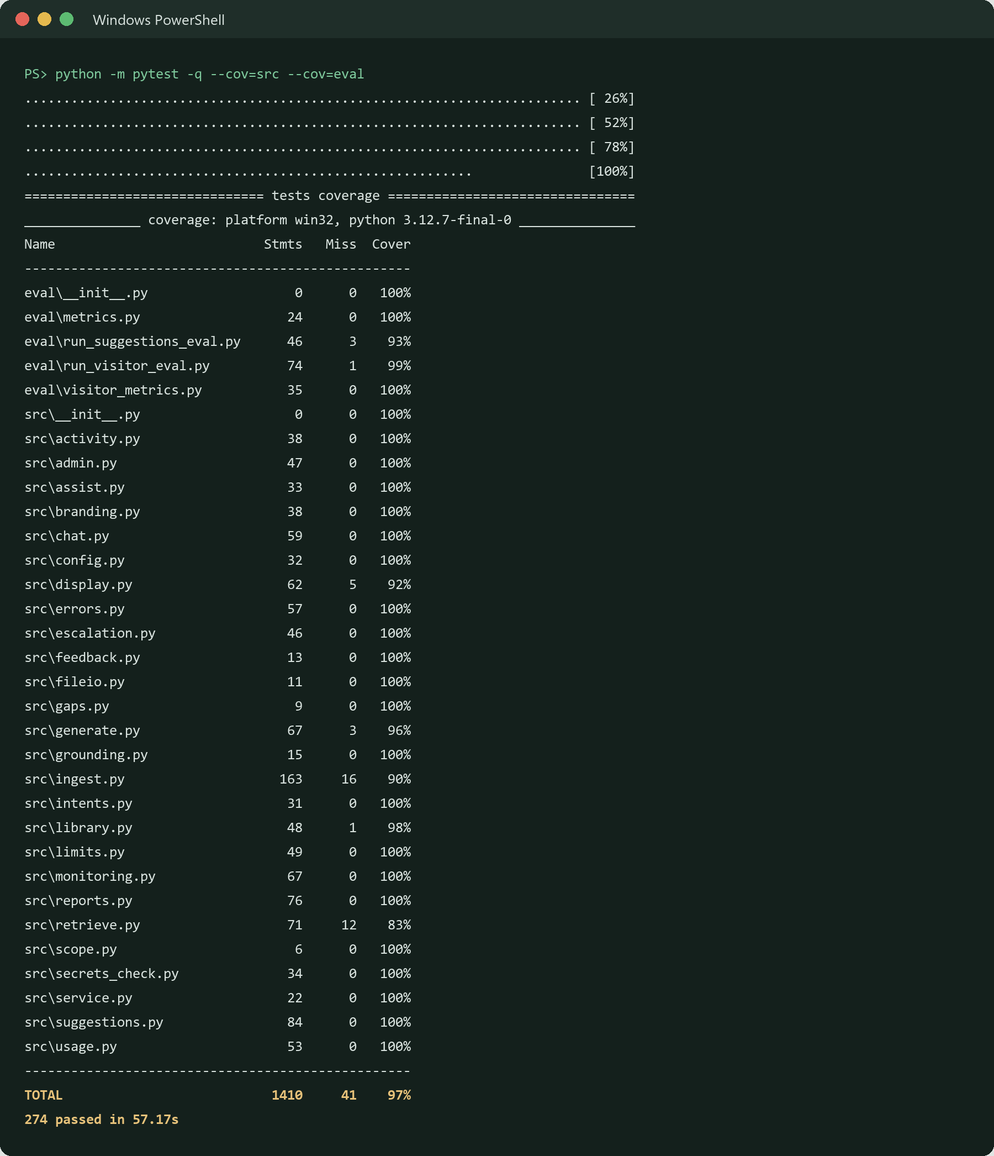
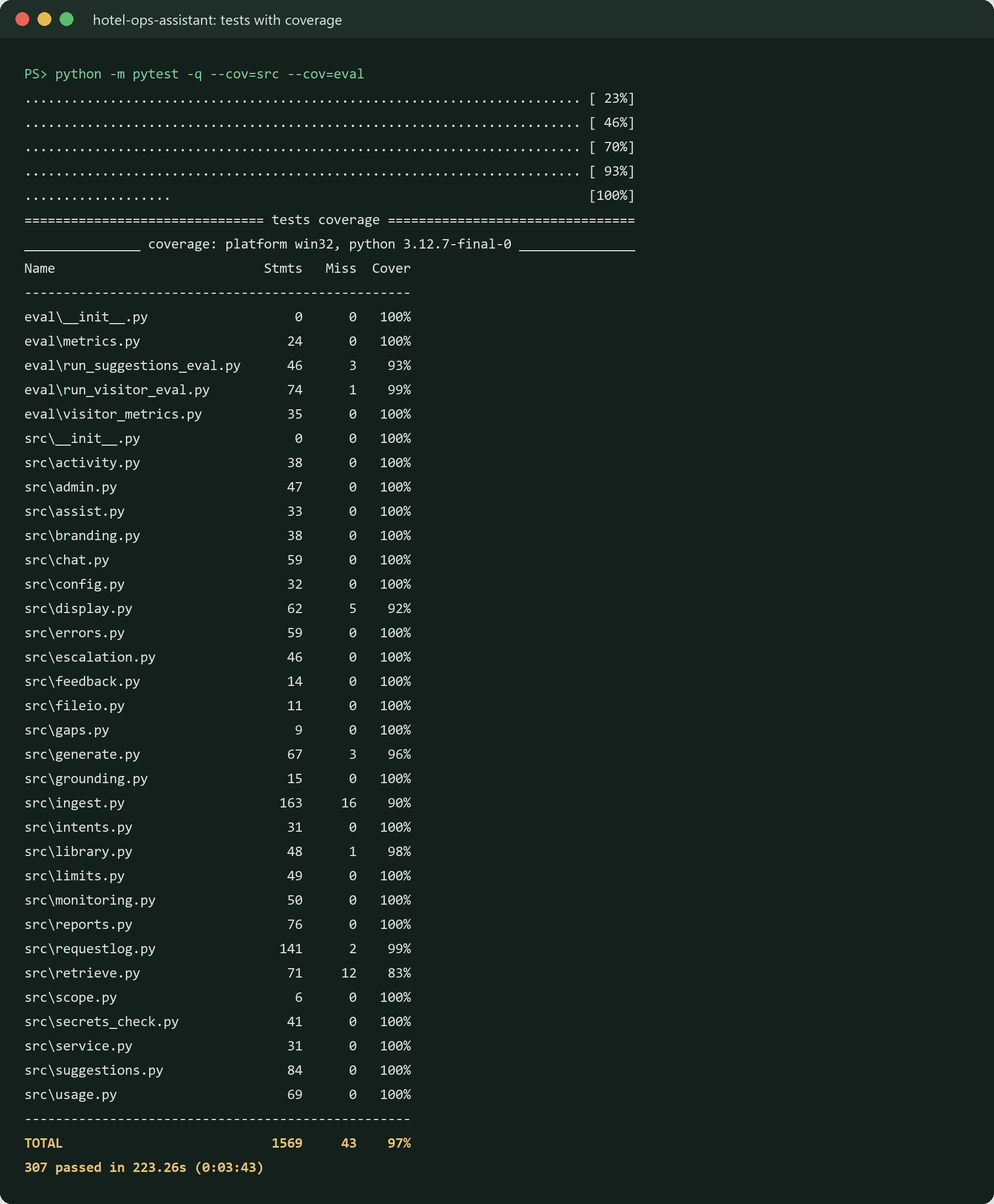
docs: request log, decision 50, limitations, screenshots and 1.5.0

diff --git a/README.md b/README.md
@@ -26,7 +26,7 @@
 | **Problem** | Staff search scattered PDFs, menus and notes while a guest waits, and the rules differ by hotel. Wrong answers turn into refunds and complaints. |
 | **Solution** | Pick your property, ask in plain English, and get a 1–4 sentence answer that cites every fact. It refuses when the documents don't say, corrects wrong facts in the question, and points to a manager for refunds and safety. |
 | **Projected value** | ~$32K/yr net for 2 properties (range $8.5K–$66K); ~$1.6M/yr at 100-property scale ([assumptions](docs/BUSINESS_CASE.md)) |
-| **Quality (measured)** | 54-question eval, 3 runs: **98% answer accuracy** on the live demo's keyword-only search (hybrid 97%, runs 96–98%); 100% of escalation rules correct; full answer p95 **2.5–2.7s**; **$0.17–0.19 per 1,000 questions**. **First-question success 100%** on 49 questions a visitor types first (43% before the coverage work). 274 tests, 97% coverage. |
+| **Quality (measured)** | 54-question eval, 3 runs: **98% answer accuracy** on the live demo's keyword-only search (hybrid 97%, runs 96–98%); 100% of escalation rules correct; full answer p95 **2.5–2.7s**; **$0.17–0.19 per 1,000 questions**. **First-question success 100%** on 49 questions a visitor types first (43% before the coverage work). 307 tests, 97% coverage. |
 
 ## Where to start
 
@@ -73,7 +73,7 @@ Staff have to find the right document for the right hotel while the guest waits.
 
 **For recruiters and engineers:** **How it works** reads the latest real eval report (never hard-coded numbers), shows which retrieval mode the running app uses and its measured accuracy, the architecture, the Haiku 4.5 vs 5.5 comparison, and the safety measures.
 
-**For the owner only:** a password-protected **Admin** page (hidden from visitors): health and recent errors, first-question success (live and from the eval), how each question was asked, warnings when the error rate or cost crosses a threshold, questions today against the daily cap, a filterable activity table with 👍 / 👎, CSV downloads of the logs, sign out and a 30-minute auto-lock. See [Monitoring](#monitoring).
+**For the owner only:** a password-protected **Admin** page (hidden from visitors): health and recent errors, first-question success (live and from the eval), how each question was asked, warnings when the error rate or cost crosses a threshold, questions today against the daily cap, a **request log** listing every request (answered, refused, off-topic, greeting, error, cap) with filters, where selecting a row opens its full details (answer, citations, retrieved passages, timing, cost, checks, feedback, raw JSON), JSONL and CSV downloads of the logs, sign out and a 30-minute auto-lock. See [Monitoring](#monitoring).
 
 <details>
 <summary>More screenshots: document library, how it works, dark mode, phone</summary>
@@ -259,7 +259,7 @@ Every finding is in [DECISIONS.md](docs/DECISIONS.md) with its context, decision
 | Measuring quality, not guessing | [Eval harness](eval/), [Results](#results), raw answers saved per run |
 | Debugging with evidence | [DECISIONS.md](docs/DECISIONS.md) 13–49: grader bugs, the $75 root cause, the Streamlit startup hang, an uninstallable pin, a Windows file race reproduced with two processes, a live-only crash reproduced by updating a running app in place |
 | Shipping a product people can use | In-app guidance tested on first-time visitor questions, multi-page app, streaming, light/dark, phone layout, white-label branding |
-| Production engineering habits | 274 tests, CI with audit and coverage gates, Docker, error boundaries, owner monitoring, cost caps, [SECURITY.md](SECURITY.md) |
+| Production engineering habits | 307 tests, CI with audit and coverage gates, Docker, error boundaries, owner monitoring, cost caps, [SECURITY.md](SECURITY.md) |
 | Translating tech into business value | [BUSINESS_CASE.md](docs/BUSINESS_CASE.md), the Insights page for managers |
 
 ## Project structure
@@ -279,7 +279,8 @@ hotel-ops-assistant/
 │   ├── assist.py · intents.py · suggestions.py  # Greetings, recovery, curated follow-ups and topics
 │   ├── scope.py · escalation.py · grounding.py · gaps.py
 │   ├── chat.py · limits.py · usage.py · feedback.py · errors.py · admin.py · fileio.py
-│   ├── monitoring.py       # Health, warnings, activity table and CSV export for the Admin page
+│   ├── monitoring.py       # Health, warnings and CSV export for the Admin page
+│   ├── requestlog.py       # Request log: outcomes, list, filters and details for the Admin page
 │   ├── secrets_check.py    # Secrets set/missing (never values), startup check, secrets.toml builder
 │   └── display.py · branding.py · library.py · activity.py · reports.py
 ├── branding.toml           # White-label: product name, colors, properties, sample questions
@@ -463,16 +464,26 @@ Three places to check, from most to least specific:
 
 | Where | What it shows | How to open it |
 |---|---|---|
-| **Admin page** (this app) | Health (status, model, retrieval mode, uptime, each secret shown as set or missing), questions today vs the daily cap, estimated cost today, the most recent errors with their likely cause, warnings when the error rate or cost crosses a threshold, a filterable activity table with 👍 / 👎, and CSV downloads of the usage, feedback and error logs | https://hotel-ops-assistant.streamlit.app/admin with your `ADMIN_PASSWORD` |
+| **Admin page** (this app) | Health (status, model, retrieval mode, uptime, each secret shown as set or missing), questions today vs the daily cap, estimated cost today, the most recent errors with their likely cause, warnings when the error rate or cost crosses a threshold, the request log (filters by date, property, result, feedback, errors and question text; select a row for the full details), and JSONL and CSV downloads of the usage, feedback and error logs | https://hotel-ops-assistant.streamlit.app/admin with your `ADMIN_PASSWORD` |
 | **Streamlit's "Manage app" logs** | Server output: one line per question (no question text), errors with tracebacks, startup messages | Bottom-right of the live app → **Manage app**, or [share.streamlit.io](https://share.streamlit.io) |
 | **Anthropic Console usage page** | The real API usage and bill (the Admin page only estimates cost) | [console.anthropic.com](https://console.anthropic.com) → Usage |
 
-Streamlit Cloud keeps logs, the error list and the daily counter only until the app restarts, so the Admin page shows recent activity. Persistent monitoring and alerts (e.g. Sentry) and real sign-in with roles and a guest mode are planned for **Project 4**.
+**The request log.** Every request writes one record (schema in [ARCHITECTURE.md](docs/ARCHITECTURE.md#request-log-record)): request ID, time, an anonymous session ID, property, the question, the outcome and refusal reason, the full answer, citations, follow-ups shown, every retrieved passage with its score and whether it was cited, model, search mode, first-word and total time, tokens, estimated cost, grounding flags and a safe error message. 👍 / 👎 ratings link to the request by its ID. Secret values are masked before anything is written. Records from older versions show missing fields as "not recorded".
+
+Streamlit Cloud keeps logs, the error list and the daily counter only until the app restarts, so the Admin page says "Logs reset when the app restarts" and offers JSONL downloads to keep a copy.
+
+<details>
+<summary>Admin request log: the list and a request's details (local run, real answers)</summary>
+<br>
+<img src="docs/images/request-log/01-request-list.png" alt="Admin request list: filters for date range, property, result, feedback, errors and question text, and a table of six requests with colored result badges" width="700">
+<img src="docs/images/request-log/04-details-answer.png" alt="Request details dialog, Answer tab: the full answer with a citation badge for Beach Resort policies, Pets" width="700">
+<img src="docs/images/request-log/05-details-sources.png" alt="Request details dialog, Sources tab: retrieved passages with section, score and a check mark for the cited one" width="700">
+</details> Persistent monitoring and alerts (e.g. Sentry) and real sign-in with roles and a guest mode are planned for **Project 4**.
 
 ## Testing and quality
 
 ```bash
-python -m pytest -q --cov                 # 274 tests, 97% coverage
+python -m pytest -q --cov                 # 307 tests, 97% coverage
 python -m eval.run_eval                    # retrieval, scope and escalation eval (free)
 python -m eval.run_eval --answers --runs 3 --price-in 0.10 --price-out 0.50
 ruff check . && ruff format --check .      # lint and format
@@ -480,16 +491,16 @@ pip-audit -r requirements.txt              # known vulnerabilities
 ```
 
 <details>
-<summary>Test run: 274 passed, 97% coverage</summary>
+<summary>Test run: 307 passed, 97% coverage</summary>
 <br>
-<img src="docs/images/tests.png" alt="pytest output: 274 tests passed with 97% coverage" width="700">
+<img src="docs/images/tests.png" alt="pytest output: 307 tests passed with 97% coverage" width="700">
 </details>
 
 CI runs on the light install (no PyTorch): lint, format check, `pip-audit`, tests with a 70% minimum coverage, a keyword-only retrieval regression gate (fails below 85%), the visitor first-question gate (fails below the measured 100%) and a check that every curated suggestion retrieves its topic. Dependabot opens weekly update pull requests. Before release, a scripted Playwright QA pass clicked through every public page in light and dark mode at laptop and phone width (251 checks: links, text, limits, errors, admin lockout, console errors).
 
 ## Security and privacy
 
-Only synthetic policy documents are indexed; no guest or payment data. Each question and its top 5 passages are sent to the API; earlier turns never are. Secrets stay in `.env` or Streamlit secrets. Questions are logged as typed (git-ignored, newest 5,000 entries), so the app asks visitors not to enter guest details; redaction comes in Project 4. Output is escaped, the public demo has per-session and daily caps, and the Admin page is password-protected with a lockout. [SECURITY.md](SECURITY.md) has the threat model and the OWASP Top 10 for LLM Applications mapping.
+Only synthetic policy documents are indexed; no guest or payment data. Each question and its top 5 passages are sent to the API; earlier turns never are. Secrets stay in `.env` or Streamlit secrets. Questions and answers are logged for quality (git-ignored, newest 5,000 entries, and only until the app restarts on Streamlit Cloud), with secret values masked; no names or accounts are collected. Questions are stored as typed, so the app asks visitors not to enter guest details; personal-data redaction comes in Project 4. Output is escaped, the public demo has per-session and daily caps, and the Admin page is password-protected with a lockout. [SECURITY.md](SECURITY.md) has the threat model and the OWASP Top 10 for LLM Applications mapping.
 
 ## Limitations and roadmap
 
@@ -498,7 +509,8 @@ Only synthetic policy documents are indexed; no guest or payment data. Each ques
 - **Live demo is keyword-only** on the free tier; the jacket and Spanish questions need hybrid.
 - **The eval and visitor questions were written by the same person who wrote the documents**, which flatters the scores; held-out questions from people who haven't seen the documents are on the [validation checklist](docs/VALIDATION_CHECKLIST.md).
 - **Word-list grading** has known false positives; an LLM judge calibrated against human labels is **Project 3**.
-- **Sign-in with roles, personal-data redaction, durable logs and monitoring:** **Project 4**.
+- **Logs live on Streamlit Cloud's temporary disk** and reset whenever the app restarts (the Admin page says so and offers JSONL downloads). **Project 4:** a persistent log store, a retention policy and a log viewer ([decision 50](docs/DECISIONS.md)).
+- **Sign-in with roles, personal-data redaction and monitoring with alerts:** **Project 4**.
 - **Project 2** uses this assistant as a tool in a guest-email agent.
 
 ## Documentation
@@ -507,7 +519,7 @@ Only synthetic policy documents are indexed; no guest or payment data. Each ques
 |---|---|
 | [ARCHITECTURE.md](docs/ARCHITECTURE.md) | System and request-flow diagrams, components, scaling path |
 | [BUSINESS_CASE.md](docs/BUSINESS_CASE.md) | Value model, assumptions, policy gaps, pilot plan, KPIs, risks |
-| [DECISIONS.md](docs/DECISIONS.md) | 49 decisions with context, decision, tradeoff and result |
+| [DECISIONS.md](docs/DECISIONS.md) | 50 decisions with context, decision, tradeoff and result |
 | [ENGINEERING_LOG.md](docs/ENGINEERING_LOG.md) | What broke and how it was fixed, in my own words |
 | [DEMO_SCRIPT.md](docs/DEMO_SCRIPT.md) | Word-for-word 2-minute walkthrough (the narrated video follows it) |
 | [VALIDATION_CHECKLIST.md](docs/VALIDATION_CHECKLIST.md) | Steps that need a person: measured baseline, held-out questions |
@@ -521,7 +533,7 @@ Built with AI-assisted development (Claude Code). I defined the requirements and
 
 ## Author
 
-**Vamsi Alla** · AI Engineer · I turn messy business problems into AI systems that work in production: measured, deployed and owned end to end.
+**Vamsi Alla** · Senior Software Engineer · Building production AI systems (LLM, RAG, agents). I turn messy business problems into AI systems that work in production: measured, deployed and owned end to end.
 
 🌐 [Portfolio](https://vamsialla.com) · 💼 [LinkedIn](https://www.linkedin.com/in/vamsi-alla/) · 🐙 [GitHub](https://github.com/vamsialladev) · ✉ vamsialla.dev@gmail.com
 

diff --git a/docs/ARCHITECTURE.md b/docs/ARCHITECTURE.md
@@ -80,7 +80,8 @@ sequenceDiagram
 | Reload guard | `codeguard.py` | After an in-place update, drops changed `src/`, `views/` and `eval/` modules so they're imported fresh together; the index rebuilds when the documents' fingerprint changes |
 | Secrets check | `src/secrets_check.py`, `scripts/make_secrets.py` | Report each secret as set or missing (never a value), log missing ones at startup, build `.streamlit/secrets.toml` from `.env` |
 | Admin gate | `src/admin.py` | Constant-time password check, failure delay, lockout, sign out, idle auto-lock |
-| Monitoring | `src/monitoring.py` | Health, threshold warnings, activity table, filters, CSV export for the Admin page |
+| Monitoring | `src/monitoring.py` | Health, threshold warnings, recent errors, CSV export for the Admin page |
+| Request log | `src/requestlog.py` | Outcome and refusal reason for every record (older ones included), the Admin list, filters, row selection, request details with "not recorded" for missing fields, JSON/JSONL downloads |
 | Safe file writes | `src/fileio.py` | Retries Windows file-sharing collisions so logs and the counter never crash a page |
 | Error boundary | `views/components.py` | Wraps every page and callback: friendly message, error recorded, no crash screen |
 | Display | `src/display.py` | HTML and `$` escaping, source chips, badges, tables, bar lists |
@@ -88,7 +89,27 @@ sequenceDiagram
 | Pages | `app.py`, `views/` | Thin Streamlit pages; no logic beyond wiring |
 | CLI | `ask.py` | Quick command-line questions |
 | Evaluation | `eval/run_eval.py`, `eval/metrics.py`, `eval/questions.jsonl` | 54 questions; strict retrieval, answers, grounding, refusals, scope, escalation, latency, cost |
-| Tests | `tests/` | 274 tests, including every page rendered with `AppTest`; no API key or PyTorch needed |
+| Tests | `tests/` | 307 tests, including every page rendered with `AppTest`; no API key or PyTorch needed |
+
+## Request log record
+One JSON line per request in `data/usage.jsonl` (schema version 2, written by `service.usage_record`, masked by
+`usage.redact`). Ratings in `data/feedback.jsonl` carry the same `request_id`.
+
+| Field | Meaning |
+|---|---|
+| `schema_version` | 2 (records without it are version 1: no answer, citations, follow-ups or outcome) |
+| `request_id` (and `turn_id`) | Short unique ID; feedback links to it |
+| `time` | UTC, ISO 8601 |
+| `session_id` | Anonymous random ID per browser session, not tied to a person |
+| `property`, `question`, `source` | Which hotel, the question as typed, and how it was asked (typed, example, follow-up…) |
+| `outcome` | `answered`, `refused`, `off_topic`, `greeting`, `error` or `cap` |
+| `refusal_reason` | `not_in_documents`, `off_topic`, `daily_cap` or `session_cap` |
+| `answer`, `citations`, `follow_ups` | Full answer text, the passages it cited (`n`, source, section), the questions offered under it |
+| `retrieved` | Every passage retrieved: source, section, score, `cited` |
+| `model`, `mode`, `ttft_s`, `total_s` | Model (none when no API call), search mode, first-word and total time |
+| `tokens_in`, `tokens_out`, `cost_usd` | Token counts and the estimated cost from the configured prices |
+| `grounding_flag`, `ungrounded`, `escalations` | Numbers not found in the cited sources; manager notes |
+| `error`, `error_message` | Error code and a short masked message (no traceback, no secrets) |
 
 ## Deployment modes
 | | Streamlit Community Cloud (live demo) | Docker (local or always-on host) |
@@ -100,7 +121,7 @@ sequenceDiagram
 | Logs | Reset when the app restarts | Persist for the container's life (mount a volume to keep them) |
 
 ## Key design choices
-See [DECISIONS.md](DECISIONS.md) for all 39. In short:
+See [DECISIONS.md](DECISIONS.md) for all 50. In short:
 - **Hybrid search**, because staff use exact terms (prices, airport codes) and loose phrasing; keyword-only where memory is tight.
 - **Property filter before search**, because a correct answer from the wrong hotel is still wrong.
 - **Refuse rather than guess, and refuse off-topic questions for free.**

diff --git a/SECURITY.md b/SECURITY.md
@@ -9,20 +9,28 @@ per-property access is planned for Project 4.
 - **Not indexed:** guest records, payment data, reservations. The assistant answers policy questions; it can't look up guests.
 - **Sent to the Claude API per question:** the question and the top 5 matching passages. Earlier turns are never sent.
 - **Logged on the app server (git-ignored, never committed):**
-  - `data/usage.jsonl`: time, property, model, retrieval mode, the question as typed, tokens in/out, estimated cost,
-    time to first word, total time, refused or not, grounding flag, manager notes, retrieved passages and scores,
-    error code.
-  - `data/feedback.jsonl`: 👍 / 👎, the optional reason, the question and answer.
+  - `data/usage.jsonl`: one record per request (answered, refused, off-topic, greeting, error or cap): request ID,
+    time, an anonymous random session ID (not tied to a person), property, the question as typed, outcome and
+    refusal reason, the full answer, citations, follow-ups shown, retrieved passages with scores and whether each
+    was cited, model, retrieval mode, tokens in/out, estimated cost, time to first word, total time, grounding
+    flag, manager notes, error code and a short safe error message (no traceback).
+  - `data/feedback.jsonl`: 👍 / 👎, the optional reason, the question and answer, linked to the request by its ID.
   - `data/daily_count.json`: today's question count for the daily cap.
   - `data/errors.jsonl`: caught errors for the Admin page: time, page, error type and a short message (masked for
     anything that looks like a key, at most 160 characters). No question text and no traceback.
 - **Logged to stdout** (Streamlit Cloud's owner-only logs): the same usage record **without the question text**.
-- **Never logged anywhere:** the API key, the admin password or any other secret.
+- **Never logged anywhere:** the API key, the admin password or any other secret. Every record passes through
+  `src/usage.redact` before it's written, which masks the configured secret values and anything shaped like an
+  Anthropic key, even if a visitor pastes one into a question.
+- **Who can see it:** only the owner, on the password-protected Admin page (lockout and 30-minute auto sign-out).
+  No log data, request IDs or downloads appear on any visitor page.
 
 ## Log retention
 - Usage, feedback and error logs keep only the **most recent 5,000 entries** (`LOG_MAX_ENTRIES`); older lines are trimmed
   on every write.
-- On Streamlit Community Cloud the files are deleted whenever the app restarts or redeploys.
+- On Streamlit Community Cloud the files live on temporary disk and are deleted whenever the app restarts. The
+  Admin page shows "Log since …" and offers JSONL downloads to keep a copy. A persistent store with a retention
+  policy and a log viewer is Project 4 (decision 50).
 - Questions are stored **as typed**. The input box and the privacy note ask visitors not to enter guest names or
   personal details, but nothing stops them. Personal-data redaction before logging and before API calls is planned
   for Project 4. Until then, the public Insights page masks emails, card-like numbers and phone numbers in refused
@@ -73,7 +81,8 @@ per-property access is planned for Project 4.
 - **Personal-data redaction** of questions before they're logged or sent to the API.
 - **Prompt-injection screening** of new or changed documents before indexing, plus an LLM judge (Project 3)
   calibrated against human labels for "did the answer follow an injected instruction?".
-- **Durable, access-controlled log storage** with an explicit retention period, instead of local files.
+- **Durable, access-controlled log storage** with an explicit retention period and a log viewer, instead of
+  local files on temporary disk.
 - **Per-IP rate limiting** at the hosting layer.
 
 ## Public deploy checklist

diff --git a/docs/DECISIONS.md b/docs/DECISIONS.md
@@ -347,3 +347,30 @@ The 54-question eval shows no regression: keyword-only 96% → 98% (retrieval 43
 - **Labels:** "Narration: AI voice" appears on the end card and under the video.
 - **Muted viewers:** burned-in captions stay. `--no-voice` turns narration off.
 **Tradeoff:** An AI voice is less personal than mine. The script makes a human take easy later.
+
+## 50. A complete request log with click-to-view details, kept honest about where it lives
+**Context:** The Admin page's "Recent questions" showed a title line and, inside, only the question and one summary
+line. The log never stored the answer, citations or follow-ups, so a request answered without the API (greeting,
+off-topic, daily cap) had nothing else to show, and greetings were labelled "refused". The session limit wasn't logged
+at all. The owner couldn't see what a visitor actually got.
+**Decision:**
+- **One complete record per request** (schema version 2): request ID, anonymous session ID, outcome (answered,
+  refused, off-topic, greeting, error, cap) and refusal reason, the full answer, citations, follow-ups shown, every
+  retrieved passage with its score and whether it was cited, timing, tokens, cost, grounding flags and a short safe
+  error message. Feedback links by request ID.
+- **Secrets can't reach a log:** every record is masked for the configured secret values and Anthropic-key shapes
+  before it's written, including text a visitor types.
+- **Older records** get an outcome worked out from their old fields and a stable ID; anything they lack shows
+  "not recorded", never a blank or a crash.
+- **Admin:** one table (newest first, colored result badges, filters, "Showing X of Y", load more) replaces both
+  the activity table and Recent questions; selecting a row opens a details dialog with tabs and a JSON download.
+- **Persistence stays honest:** logs remain on Streamlit Cloud's temporary disk; the page says "Logs reset when the
+  app restarts" and offers JSONL downloads.
+**Tradeoff:** Answers make each record a few KB, and the log is still lost on restart. A persistent store with a
+retention policy and a log viewer is Project 4; until then, downloads are the backup.
+**Result:** Tested for every request type end to end through the real page, plus older and damaged records,
+feedback linking, secret masking, filters, row selection opening the right record, and downloads only behind the
+Admin password. The two early mountain-lodge entries that showed only a header line can't be read without signing
+in to the live Admin page; reproducing every record type locally showed none crashes, so the likely cause is the
+old view having nothing more to show for them. The new Raw tab shows exactly what any record contains.
+

diff --git a/docs/images/README.md b/docs/images/README.md
@@ -6,7 +6,7 @@ Every image here is real output from this repo. Regenerate them after changes so
 | File | Shows | How to regenerate |
 |---|---|---|
 | `eval-retrieval.png` | 54-question eval, hybrid: retrieval, scope and escalation checks | `python -m eval.run_eval > out.txt`, then `python scripts/render_terminal.py out.txt docs/images/eval-retrieval.png --command "python -m eval.run_eval" --title "hotel-ops-assistant: retrieval, scope and escalation eval (hybrid)"` |
-| `tests.png` | `pytest` with coverage: 274 passed, 97% | `python -m pytest -q --cov=src --cov=eval > out.txt`, then render as above |
+| `tests.png` | `pytest` with coverage: 307 passed, 97% | `python -m pytest -q --cov=src --cov=eval > out.txt`, then render as above |
 | `business-case.png` | Calculator scenarios, 100 properties (projection) | `python scripts/business_case.py --scenarios --properties 100 --hosting 15000 > out.txt`, then render |
 
 ## App screenshots (captured from the running app with real questions)
@@ -35,3 +35,15 @@ For a design review of every page in both modes and both widths: `python scripts
 - Only real answers and real usage; no made-up data
 - Text is readable without zooming
 - PNG under 1 MB where possible, GIF under 5 MB
+
+## Admin request log (`request-log/`, captured from a local run with real answers)
+| File | Shows |
+|---|---|
+| `01-request-list.png`, `02-request-list-filtered.png` | Request list, unfiltered and searched for "dog" |
+| `03`–`09-details-*.png` | Request details dialog: Summary, Answer, Sources, Performance, Checks, Feedback, Raw |
+| `10-details-phone.png` | The dialog at phone width (390 px) |
+
+Run the app locally with a test-only `ADMIN_PASSWORD` set in the environment and a separate `LOG_DIR`, ask a few
+questions (an answer, a refusal, a greeting, an off-topic one), rate two, then sign in to Admin and capture. Never use
+the real admin password for screenshots, and check that no secret value is visible.
+

diff --git a/CHANGELOG.md b/CHANGELOG.md
@@ -2,6 +2,28 @@
 
 Format based on [Keep a Changelog](https://keepachangelog.com/). Versions follow [Semantic Versioning](https://semver.org/).
 
+## [1.5.0] - 2026-10-11
+### Added
+- **Complete request log** (schema version 2): one record per request, whether answered, refused, off-topic,
+  greeting, error or cap (the session limit is now logged too). Each record has a request ID, an anonymous session
+  ID, the outcome and refusal reason, the full answer, citations, follow-ups shown, every retrieved passage with
+  its score and whether it was cited, timing, tokens, cost, grounding flags and a short safe error message.
+  👍 / 👎 ratings carry the same request ID.
+- **Admin request list:** one table, newest first, with colored result badges, filters (date range, property,
+  result, feedback, errors only, question text), "Showing X of Y requests" and "Load more".
+- **Request details:** selecting a row opens a dialog with Summary, Answer, Sources, Performance, Checks,
+  Feedback and Raw tabs, plus "Download this request (JSON)".
+- **Log downloads:** "Download usage log (JSONL)" and "Download feedback log (JSONL)" (Admin only), under a
+  "Log since … · Logs reset when the app restarts" note.
+
+### Changed
+- Every log record is masked for secret values and Anthropic-key shapes before it's written, including text a
+  visitor types.
+- Records from older versions get an outcome and a stable ID; anything missing shows "not recorded".
+- The activity table and "Recent questions" are replaced by the request list. The privacy page says questions and
+  answers are logged for quality and kept only until the app restarts, and that no names or accounts are collected.
+- README author line uses the current title.
+
 ## [1.4.0] - 2026-10-10
 ### Added
 - **In-app guidance** on the welcome screen (first visit and after every New conversation, both properties): a
